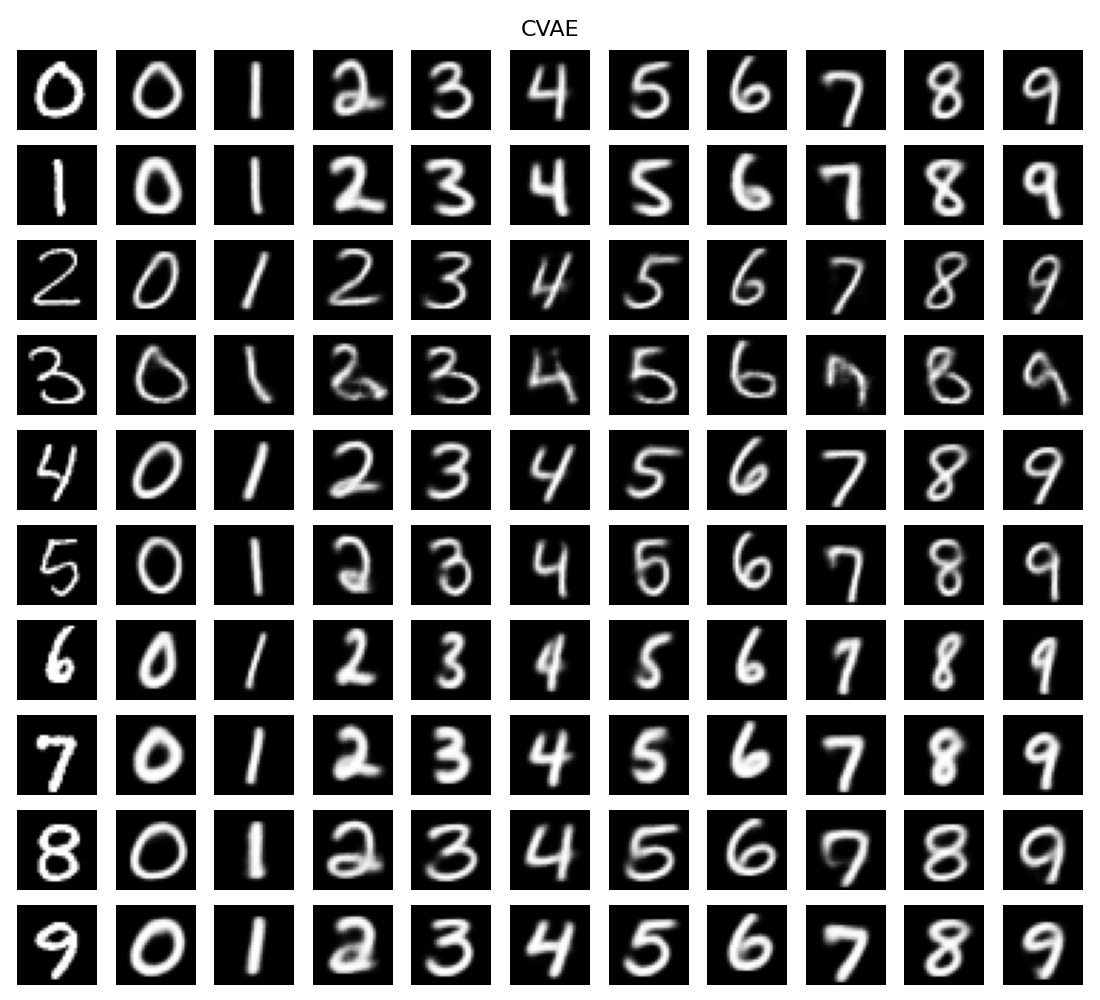
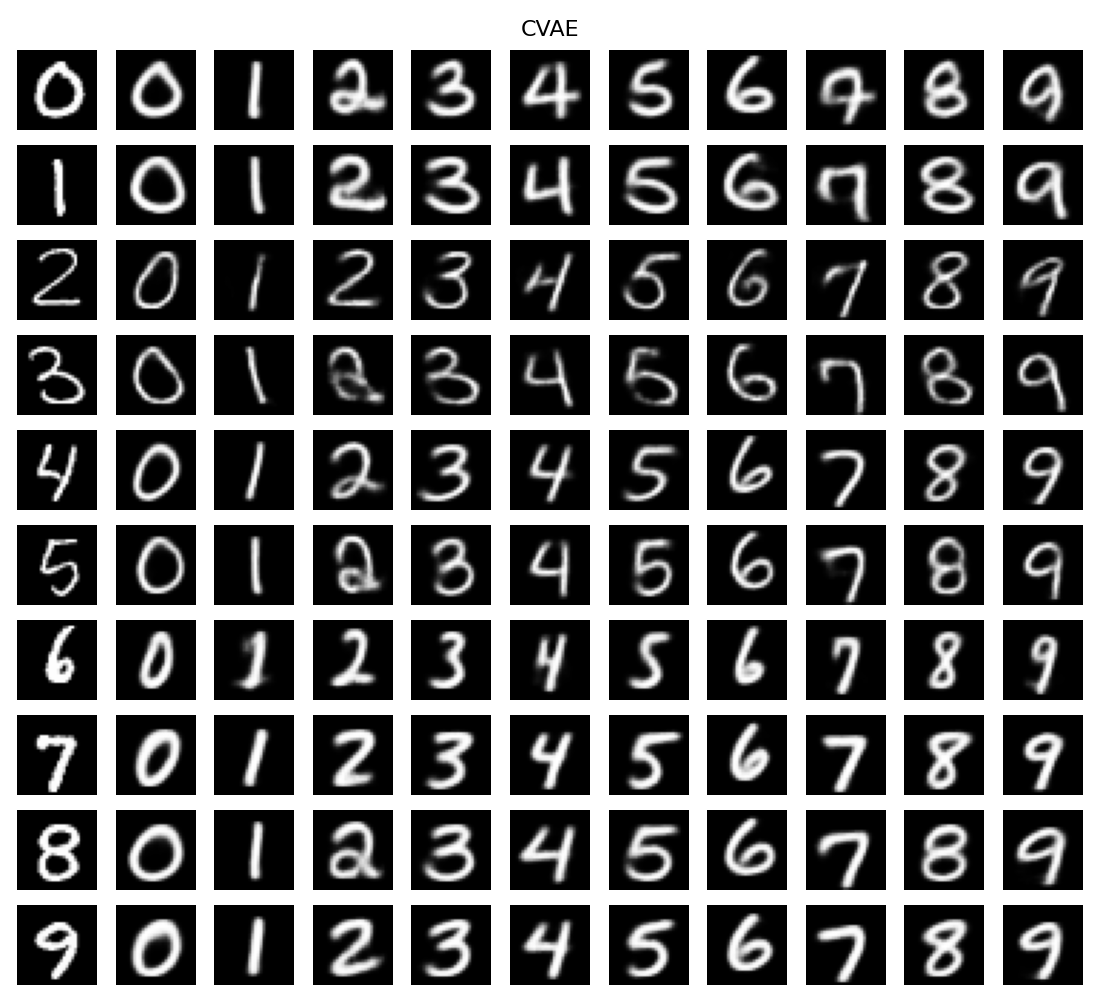
CVAE Update

diff --git a/Code/MNIST/MNIST-CVAE-Train.py b/Code/MNIST/MNIST-CVAE-Train.py
@@ -3,6 +3,7 @@ from tensorflow import keras
 from tensorflow.keras import layers
 import numpy as np
 import matplotlib.pyplot as plt
+from sklearn.manifold import TSNE
 
 class Sampling(layers.Layer):
     def call(self, inputs):
@@ -17,30 +18,31 @@ class Encoder(layers.Layer):
         super().__init__(**kwargs)
         self.conv1 = layers.Conv2D(32, 3, strides=2, activation='relu', padding='same')
         self.conv2 = layers.Conv2D(64, 3, strides=2, activation='relu', padding='same')
+        self.conv3 = layers.Conv2D(64, 3, strides=2, activation='relu', padding='same')
         self.flatten = layers.Flatten()
-        self.concat = layers.Concatenate()
         self.dense = layers.Dense(256, activation='relu')
         self.z_mean = layers.Dense(latent_dim)
         self.z_log_var = layers.Dense(latent_dim)
         self.sampling = Sampling()
 
-    def call(self, inputs):
-        x, y = inputs
+    def call(self, x):
         x = self.conv1(x)
         x = self.conv2(x)
+        x = self.conv3(x)
         x = self.flatten(x)
-        x = self.concat([x, y])
         x = self.dense(x)
         z_mean = self.z_mean(x)
         z_log_var = self.z_log_var(x)
-        return z_mean, z_log_var, self.sampling((z_mean, z_log_var))
+        z = self.sampling((z_mean, z_log_var))
+        return z_mean, z_log_var, z
 
 class Decoder(layers.Layer):
     def __init__(self, **kwargs):
         super().__init__(**kwargs)
         self.concat = layers.Concatenate()
+        self.dense0 = layers.Dense(256, activation='relu')
         self.dense = layers.Dense(7*7*64, activation='relu')
-        self.reshape = layers.Reshape((7,7,64))
+        self.reshape = layers.Reshape((7, 7, 64))
         self.deconv1 = layers.Conv2DTranspose(64, 3, strides=2, activation='relu', padding='same')
         self.deconv2 = layers.Conv2DTranspose(32, 3, strides=2, activation='relu', padding='same')
         self.conv_out = layers.Conv2D(1, 3, activation='sigmoid', padding='same')
@@ -48,6 +50,7 @@ class Decoder(layers.Layer):
     def call(self, inputs):
         z, y = inputs
         x = self.concat([z, y])
+        x = self.dense0(x)
         x = self.dense(x)
         x = self.reshape(x)
         x = self.deconv1(x)
@@ -74,10 +77,11 @@ class CVAE(keras.Model):
             self.kl_loss_tracker,
         ]
     
+    @tf.function
     def train_step(self, data):
         x, y = data
         with tf.GradientTape() as tape:
-            z_mean, z_log_var, z = self.encoder((x, y))
+            z_mean, z_log_var, z = self.encoder(x)
             x_recon = self.decoder((z, y))
             reconstruction_loss = tf.reduce_mean(
                 tf.reduce_sum(
@@ -105,9 +109,10 @@ class CVAE(keras.Model):
             "beta": beta
         }
     
+    @tf.function
     def test_step(self, data):
         x, y = data
-        z_mean, z_log_var, z = self.encoder((x, y))
+        z_mean, z_log_var, z = self.encoder(x)
         x_recon = self.decoder((z, y))
         reconstruction_loss = tf.reduce_mean(
             tf.reduce_sum(
@@ -132,7 +137,7 @@ class CVAE(keras.Model):
     
     def call(self, inputs):
         x, y = inputs
-        z_mean, z_log_var, z = self.encoder((x, y))
+        z_mean, z_log_var, z = self.encoder(x)
         return self.decoder((z, y))
 
 (x_train, y_train), (x_test, y_test) = keras.datasets.mnist.load_data()
@@ -145,8 +150,8 @@ num_classes = 10
 y_train = keras.utils.to_categorical(y_train, num_classes)
 y_test = keras.utils.to_categorical(y_test, num_classes)
 
-latent_dim = 16
-cvae = CVAE(latent_dim=latent_dim, final_beta=3.5, annealing_steps=10000)
+latent_dim = 24
+cvae = CVAE(latent_dim=latent_dim, final_beta=3.0, annealing_steps=20000)
 cvae.compile(optimizer=keras.optimizers.Adam())
 
 cvae.fit(
@@ -155,11 +160,6 @@ cvae.fit(
     epochs=30,
     validation_data=(x_test, y_test)
 )
-
-x0 = x_test[0:1]
-y0 = y_test[0:1]
-
-z_mean, z_log_var, z = cvae.encoder((x0, y0))
 
 digits = [
     1333,  # 0
@@ -180,7 +180,7 @@ for j, idx in enumerate(digits):
     x_src = x_test[idx:idx + 1]
     y_src = y_test[idx:idx + 1]
     
-    z_mean, z_log_var, z = cvae.encoder((x_src, y_src))
+    _, _, z = cvae.encoder(x_src)
     
     axs[j, 0].imshow(x_src[0, :, :, 0], cmap='gray')
     axs[j, 0].axis('off')
@@ -197,3 +197,34 @@ for j, idx in enumerate(digits):
 plt.suptitle("CVAE", fontsize=16)
 plt.tight_layout()
 plt.savefig("./Results/mnist-cvae.png")
+
+z_mean, _, _ = cvae.encoder(x_test)
+z_mean = z_mean.numpy()
+
+tsne = TSNE(n_components=2, random_state=42)
+z_tsne = tsne.fit_transform(z_mean)
+
+labels = np.argmax(y_test, axis=1)
+
+plt.figure(figsize=(8, 8))
+scatter = plt.scatter(z_tsne[:, 0], z_tsne[:, 1], c=labels, cmap="Paired", alpha=0.35)
+plt.colorbar(scatter, ticks=range(10))
+plt.title("t-SNE CVAE (style)")
+plt.xlabel("x")
+plt.ylabel("y")
+plt.savefig("./Results/mnist-cvae-style-tsne.png")
+
+z_mean_class = np.concatenate((z_mean, y_test.astype(float)), axis=1)
+
+tsne = TSNE(n_components=2, random_state=42)
+z_tsne = tsne.fit_transform(z_mean_class)
+
+labels = np.argmax(y_test, axis=1)
+
+plt.figure(figsize=(8, 8))
+scatter = plt.scatter(z_tsne[:, 0], z_tsne[:, 1], c=labels, cmap="Paired", alpha=0.35)
+plt.colorbar(scatter, ticks=range(10))
+plt.title("t-SNE CVAE")
+plt.xlabel("x")
+plt.ylabel("y")
+plt.savefig("./Results/mnist-cvae-tsne.png")
